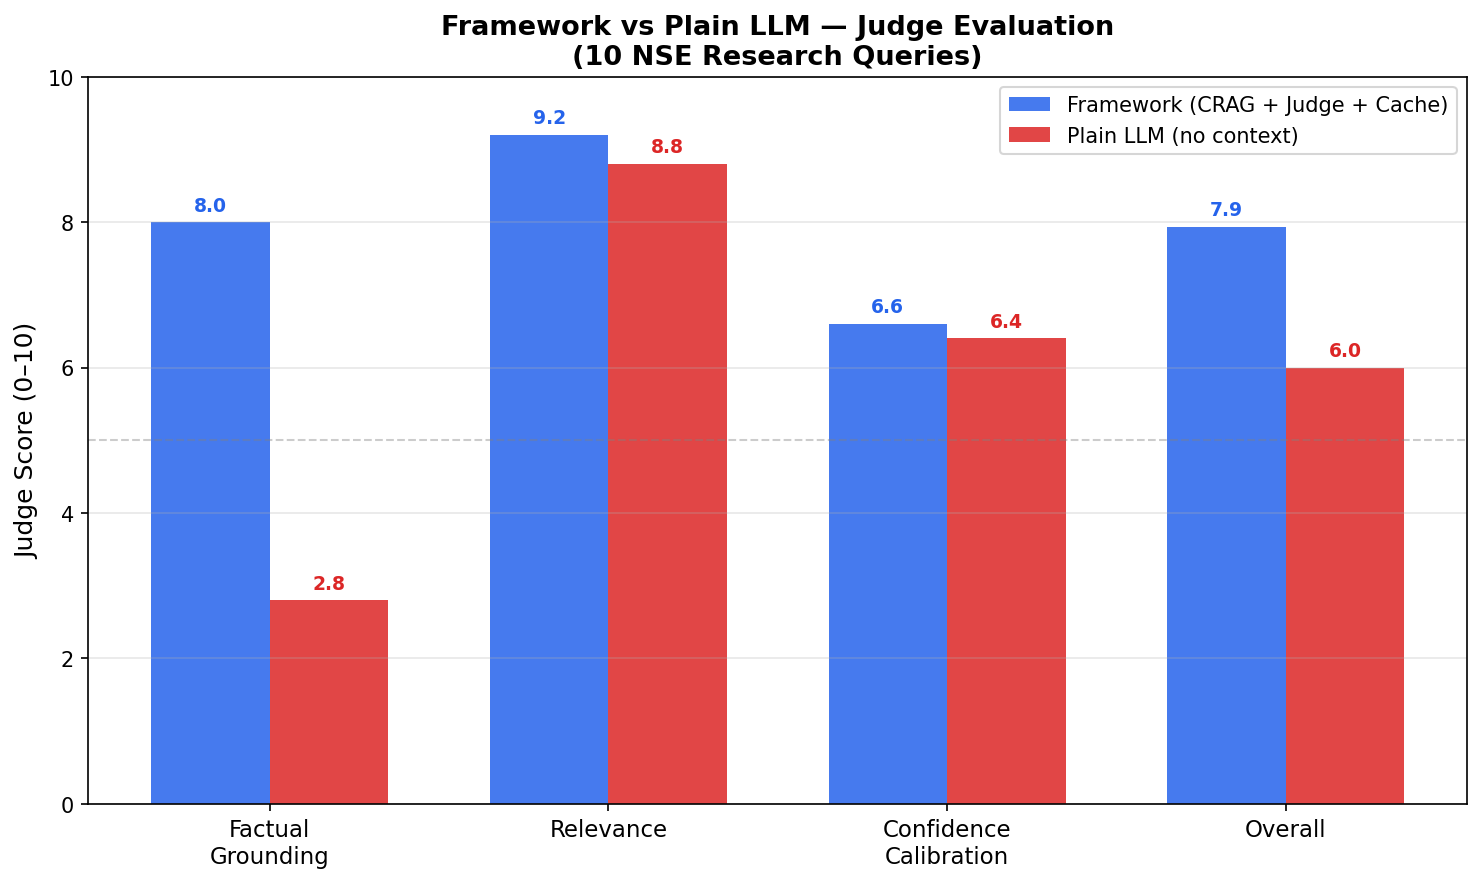
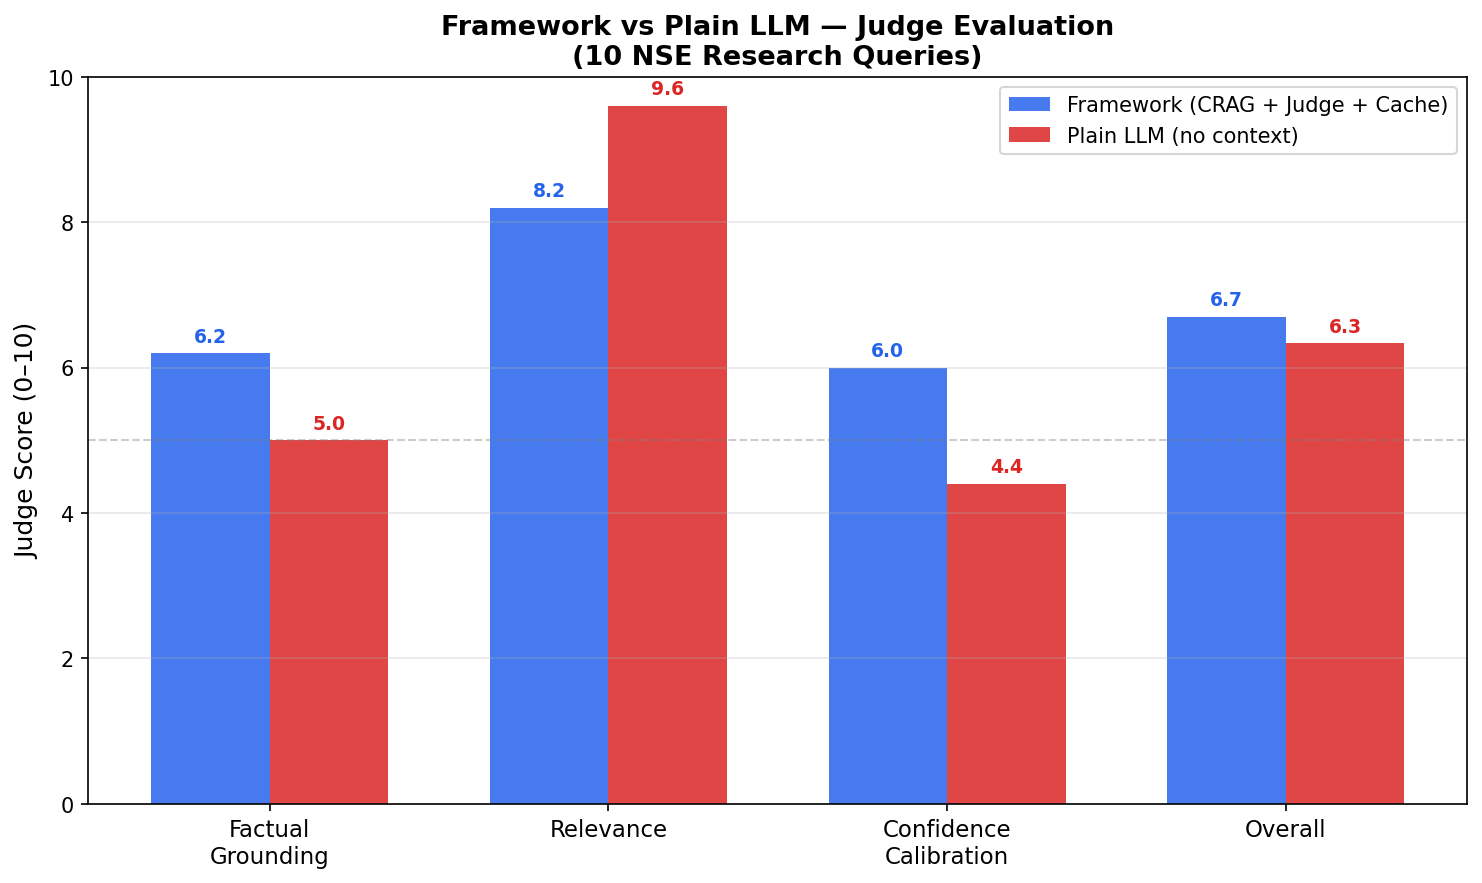
bug-fix1

diff --git a/config.py b/config.py
@@ -29,7 +29,7 @@ elif PROVIDER == "mixed":
 else:  # groq
     PLANNER_MODEL   = "llama-3.3-70b-versatile"
     JUDGE_MODEL     = "llama-3.1-8b-instant"
-    CRITIC_MODEL    = "llama-3.1-8b-instant"
+    CRITIC_MODEL    = "llama-3.3-70b-versatile"
     REFLECTOR_MODEL = "llama-3.1-8b-instant"
     GENERATOR_MODEL = "llama-3.3-70b-versatile"
 

diff --git a/graph/edges.py b/graph/edges.py
@@ -188,7 +188,7 @@ def should_route_web_first(state: AgentState) -> str:
     print(f"[ROUTE] No web-first patterns → standard retrieval")
     return "retrieve"
 
-MAX_THESIS_REVISIONS = 1
+MAX_THESIS_REVISIONS = 2
 
 def route_after_thesis_critique(state: AgentState) -> str:
     """

diff --git a/memory/MEMORY_LOG.md b/memory/MEMORY_LOG.md
@@ -1707,3 +1707,108 @@ If the evidence is insufficient, state that no reliable directional conclusion c
 
 ---
 
+### Lesson #122 — 2026-07-07
+**Status:** ACTIVE (confidence=0.80, threshold=0.75)
+
+**Query:** Assuming the US Federal Reserve cuts rates by 50 basis points, which Indian sectors are likely to benefit the most and why?
+
+**Category:** `macroeconomic impact analysis`
+
+**Routing Recommendation:** `mixed`
+
+**Lesson:**
+> For macroeconomic impact analysis queries, specifically those involving the US Federal Reserve's rate decisions and their effects on Indian sectors, consider decomposing the query into two separate sub-queries: one focusing on the US Federal Reserve's rate decision and its global market impact, and another on the Indian sectors sensitive to interest rate changes. This will allow for more accurate and relevant information to be retrieved from the vector store.
+
+---
+
+### Lesson #123 — 2026-07-07
+**Status:** ACTIVE (confidence=0.80, threshold=0.75)
+
+**Query:** What are the latest RBI rate decisions and impact on banking stocks?
+
+**Category:** `macro_rbi_rates`
+
+**Routing Recommendation:** `mixed`
+
+**Lesson:**
+> For macro_rbi_rates queries, the sub-query decomposition into three distinct topics (rate decisions, banking stocks fundamentals, and rate decision impact) consistently results in low vector store scores. Consider decomposing into two topics: RBI rate decisions and their impact on banking stocks, and then use a bridge query to connect the two.
+
+---
+
+### Lesson #124 — 2026-07-07
+**Status:** ACTIVE (confidence=0.80, threshold=0.75)
+
+**Query:** What are the latest RBI rate decisions and impact on banking stocks?
+
+**Category:** `macro_rbi_rates`
+
+**Routing Recommendation:** `mixed`
+
+**Lesson:**
+> For macro_rbi_rates queries, the sub-query decomposition should be revised to focus on the specific impact of RBI rate decisions on banking stocks, rather than decomposing into separate sub-queries for rate decisions and stock fundamentals.
+
+---
+
+### Lesson #125 — 2026-07-07
+**Status:** ACTIVE (confidence=0.80, threshold=0.75)
+
+**Query:** What are the latest RBI rate decisions and impact on banking stocks?
+
+**Category:** `RBI rate decision impact on banking stocks`
+
+**Routing Recommendation:** `mixed`
+
+**Lesson:**
+> For RBI rate decision impact queries, decompose into sub-queries that focus on the rate decision itself and its direct impact on banking stocks, rather than trying to bridge two distinct topics.
+
+---
+
+### Lesson #126 — 2026-07-07
+**Status:** ACTIVE (confidence=0.80, threshold=0.75)
+
+**Query:** You are an evidence-driven analyst, not a prediction engine.
+
+Your task is to determine whether the market's reaction to today's biggest Indian stock market news is rational.
+
+Rules:
+
+Identify the single most market-moving news event from today.
+Explain why you selected it over other news.
+Identify every listed company that could reasonably be affected directly or indirectly.
+Collect relevant evidence including price movement, trading volume, sector performance, options activity (if available), corporate announcements, analyst commentary, and macroeconomic context.
+Construct two competing explanations for the market reaction.
+Explanation A: The reaction is fundamentally justified.
+Explanation B: The reaction is primarily driven by sentiment, speculation, liquidity, or short-term positioning.
+For each explanation:
+List supporting evidence.
+List contradicting evidence.
+Identify hidden assumptions.
+Estimate confidence.
+Attempt to disprove the explanation with the higher confidence by searching for additional evidence.
+If new evidence changes your conclusion, revise it and explain exactly what changed your mind.
+Produce a final verdict that clearly separates:
+Facts
+Reasonable inferences
+Assumptions
+Speculation
+Unknowns
+If the available evidence is insufficient or contradictory, explicitly state that no reliable conclusion can be reached instead of forcing one.
+
+Restrictions:
+
+Never invent missing data.
+Never assume causation from correlation without justification.
+Every conclusion must be traceable to evidence.
+If two sources disagree, explain why instead of choosing one without justification.
+Confidence must decrease when evidence conflicts.
+Your goal is not to sound confident; your goal is to be correct.
+
+**Category:** `market-moving news event analysis`
+
+**Routing Recommendation:** `mixed`
+
+**Lesson:**
+> For market-moving news event analysis, decompose the query into sub-queries that focus on identifying the single most significant news event, affected companies, and relevant evidence, and then construct competing explanations for the market reaction. Specifically, for this query category, break down the problem into sub-queries that focus on the news event, affected companies, and explanations for the market reaction, and ensure that each sub-query is analyzed independently before synthesizing the results.
+
+---
+
